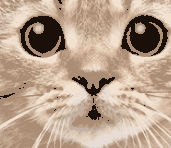
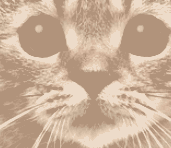
fixed recolor

diff --git a/src/main/java/logic/ReColor.java b/src/main/java/logic/ReColor.java
@@ -77,28 +77,29 @@ public class ReColor {
                 int pixel = img.getRGB(x, y);
                 int alpha = (pixel >> 24) & 0xff;
                 int origRed = (pixel >> 16) & 0xff;
-                int origGreen = (pixel >> 8) & 0xff;
-                int origBlue = pixel & 0xff;
 
-                // Blend original color with the selected color
-                int newRed = (int)(origRed * redFactor);
-                int newGreen = (int)(origGreen * greenFactor);
-                int newBlue = (int)(origBlue * blueFactor);
+                // Use the original red channel as brightness (like your makeRed)
+                int brightness = origRed;
 
-                // Clamp values between 0 and 255
+                // Now apply the selected color multiplied by brightness
+                int newRed = (int)(brightness * redFactor);
+                int newGreen = (int)(brightness * greenFactor);
+                int newBlue = (int)(brightness * blueFactor);
+
+                // Clamp to [0, 255]
                 newRed = Math.min(255, Math.max(0, newRed));
                 newGreen = Math.min(255, Math.max(0, newGreen));
                 newBlue = Math.min(255, Math.max(0, newBlue));
 
-                int blendedPixel = (alpha << 24) | (newRed << 16) | (newGreen << 8) | newBlue;
-                colorImg.setRGB(x, y, blendedPixel);
+                int tintedPixel = (alpha << 24) | (newRed << 16) | (newGreen << 8) | newBlue;
+                colorImg.setRGB(x, y, tintedPixel);
             }
         }
 
         try {
-            String baseFilename = new File(imageName).getName(); // example: test_input16.png
-            baseFilename = baseFilename.replaceAll("\\d+", ""); // remove any digits like 16
-            baseFilename = baseFilename.replace(".png", ""); // remove .png to avoid double
+            String baseFilename = new File(imageName).getName();
+            baseFilename = baseFilename.replaceAll("\\d+", "");
+            baseFilename = baseFilename.replace(".png", "");
             String customColorName = baseFilename + "CustomColor.png";
 
             ImageIO.write(colorImg, "png", new File(customColorName));
@@ -106,9 +107,8 @@ public class ReColor {
             System.err.println("Failed to write custom color image.");
             e.printStackTrace();
         }
-
-
     }
+
 
 
 
